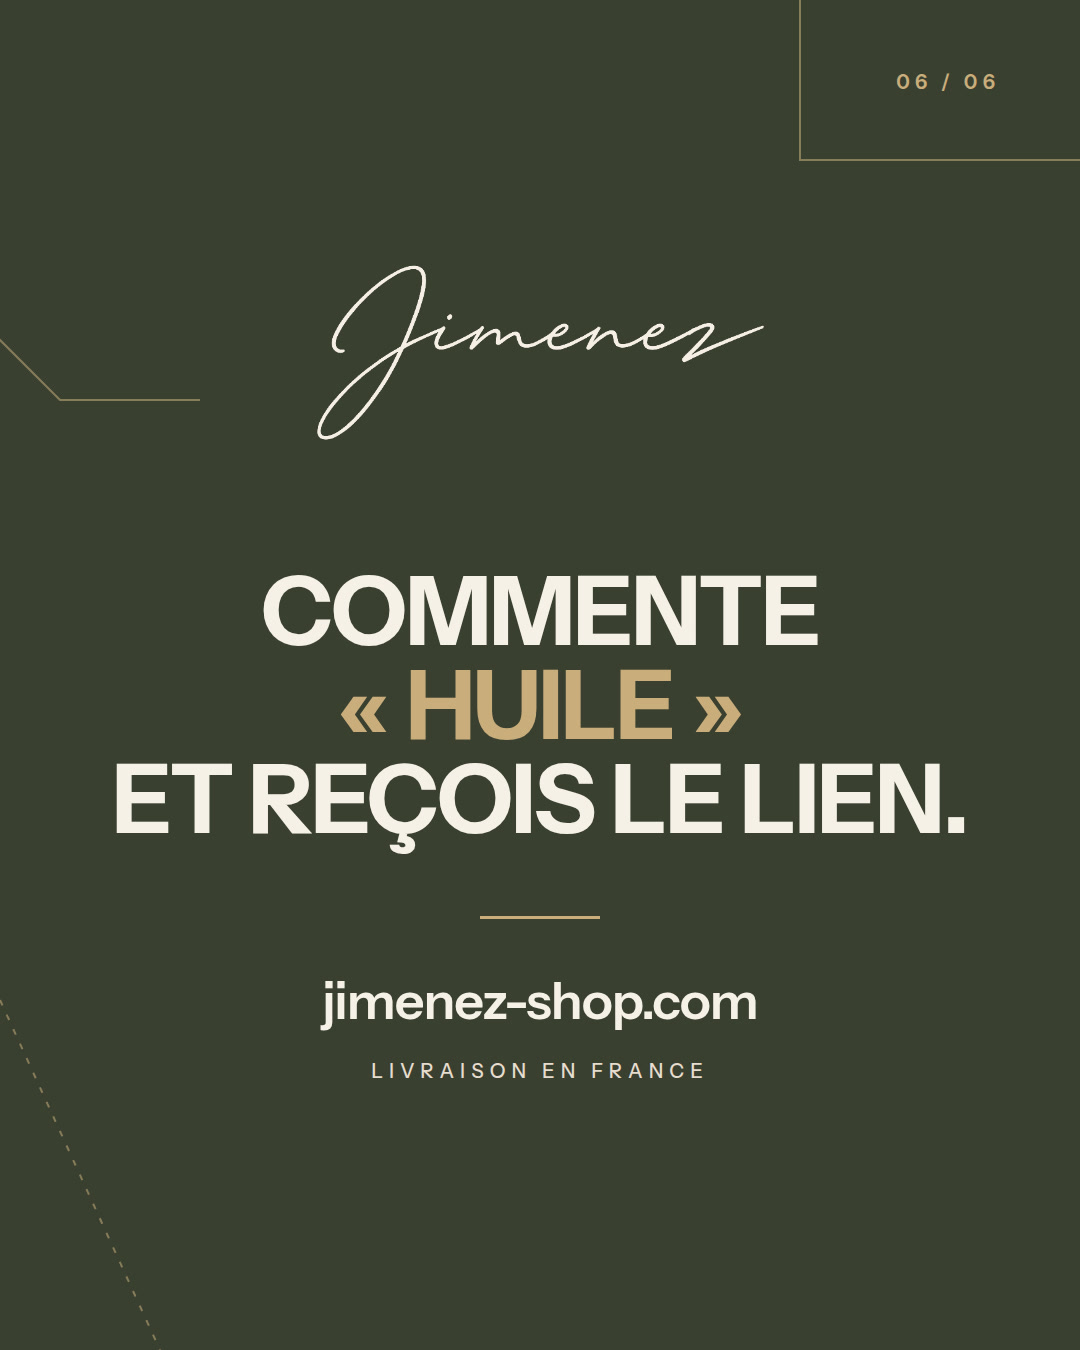
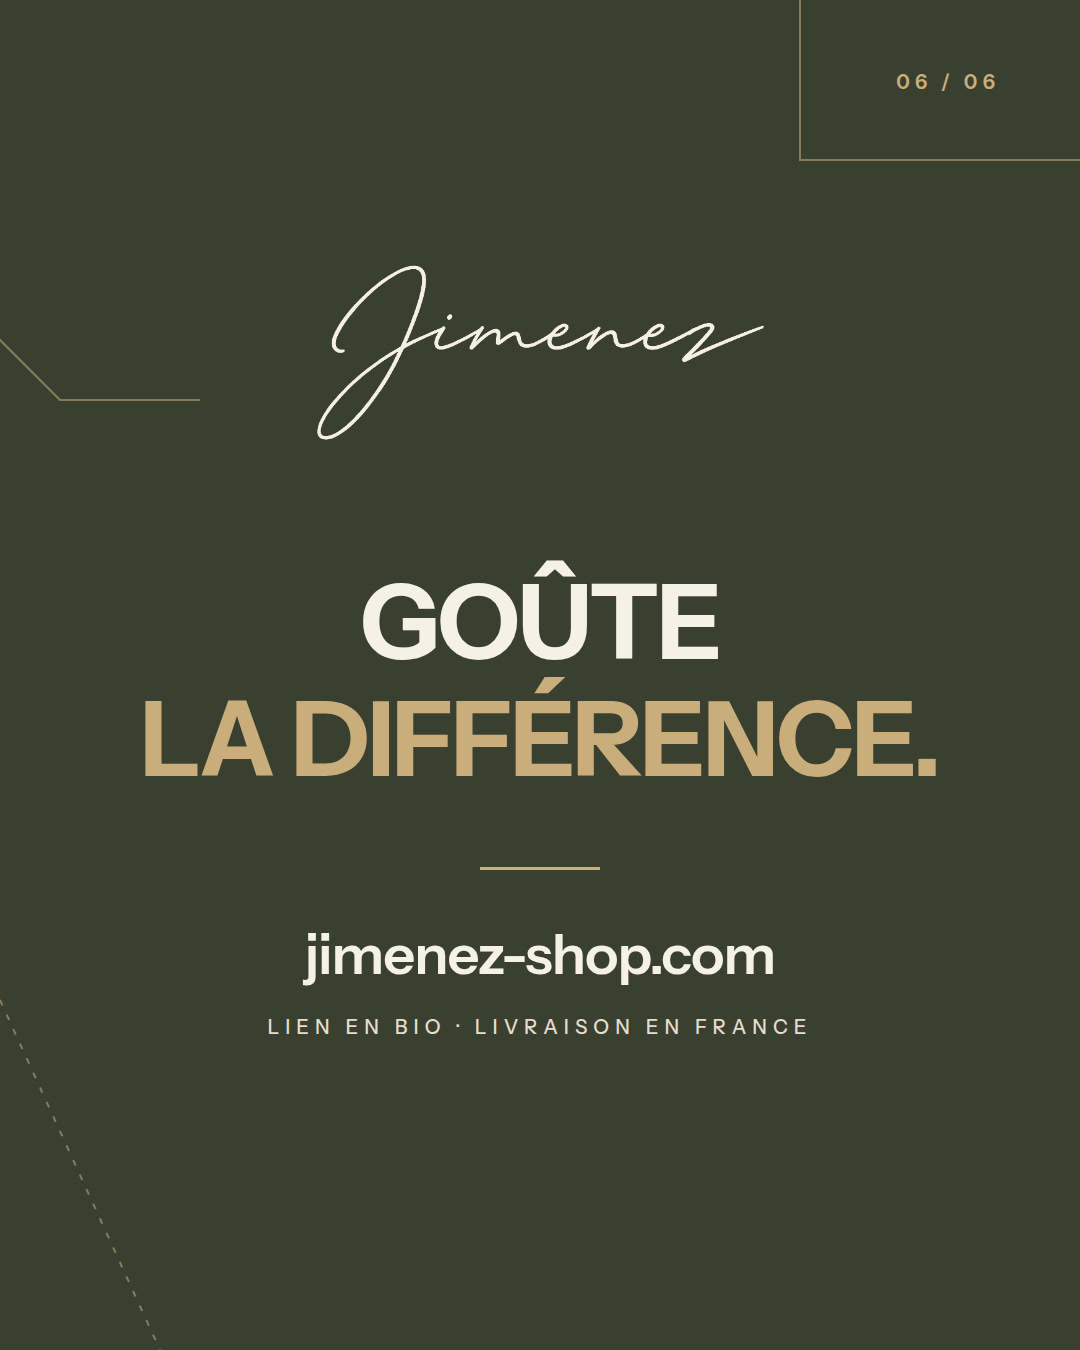
Carrousel : dernière image sans « Commente HUILE », lien en bio
Claude-Session: https://claude.ai/code/session_01UiVtPwDdPsmKbNcFJesaT8

Changed region(s): [[0.0917, 0.4044, 0.8861, 0.6533], [0.275, 0.6844, 0.7333, 0.8089]]

diff --git a/instagram/video-source/carousel.html b/instagram/video-source/carousel.html
@@ -71,10 +71,10 @@ body{font-family:"Instrument Sans",sans-serif}
  <div class="num" style="color:var(--gold2)">06 / 06</div>
  <div style="position:absolute;left:0;right:0;top:250px;display:flex;flex-direction:column;align-items:center;text-align:center">
   <img src="img/logo_cream.png" style="width:470px;margin-bottom:110px">
-  <div class="H" style="font-size:96px">Commente<br><span class="g">« HUILE »</span><br>et reçois le lien.</div>
+  <div class="H" style="font-size:104px;line-height:1.12">Goûte<br><span class="g">la différence.</span></div>
   <div style="width:120px;height:3px;background:var(--gold2);margin:70px 0 50px"></div>
-  <div style="font-size:52px;font-weight:600;letter-spacing:-1px">jimenez-shop.com</div>
-  <div class="small" style="margin-top:22px;color:var(--beige);font-size:20px">Livraison en France</div></div>
+  <div style="font-size:56px;font-weight:600;letter-spacing:-1px">jimenez-shop.com</div>
+  <div class="small" style="margin-top:22px;color:var(--beige);font-size:20px">Lien en bio · Livraison en France</div></div>
 </div>
 
 <!-- lignes continues -->
